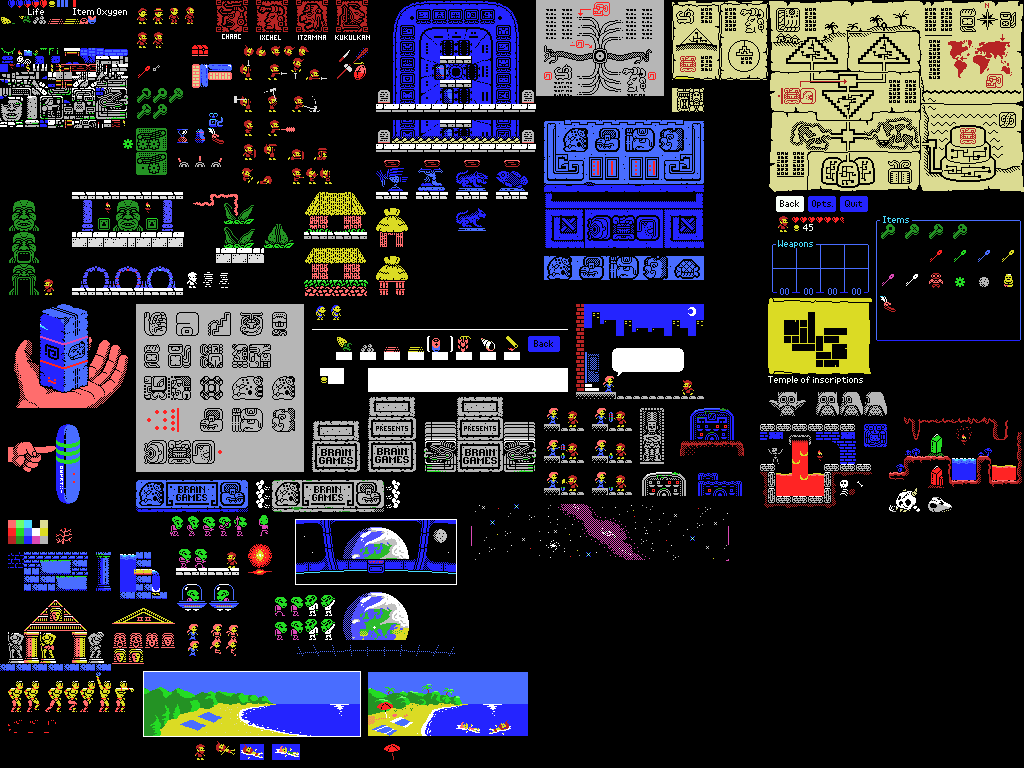
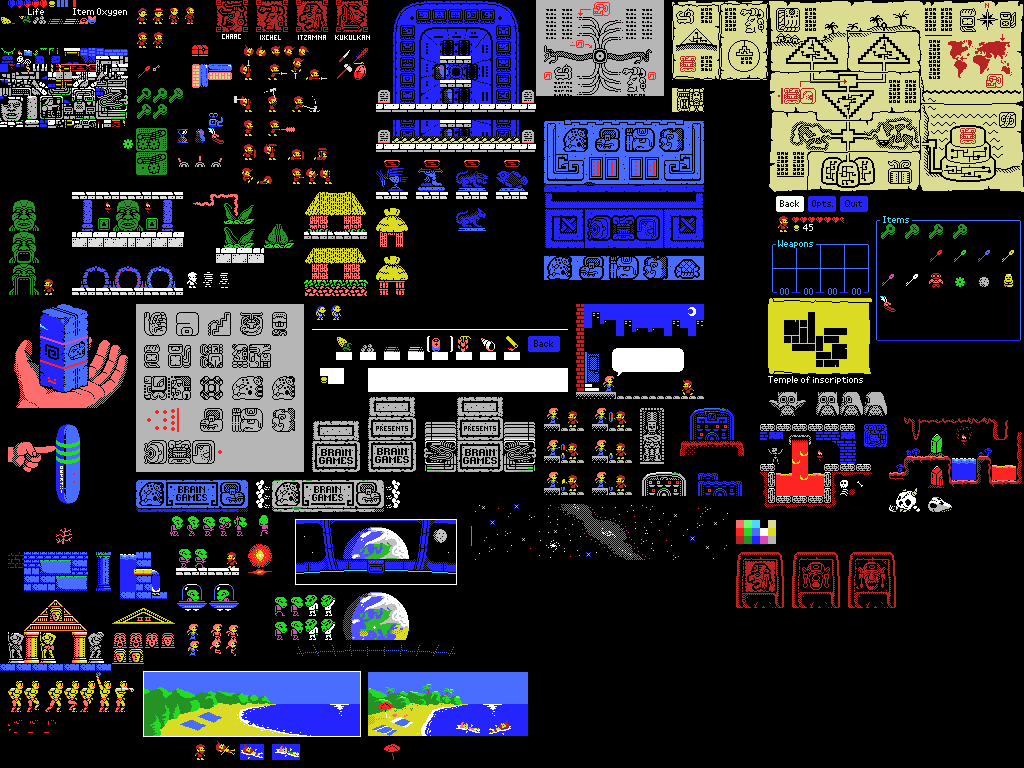
added itzamna altar and wall drawings to astronomy room

Changed region(s): [[0.7188, 0.6562, 0.875, 0.8125], [0.0, 0.6562, 0.0625, 0.7188]]

diff --git a/java/src/xspelunker2/Text.java b/java/src/xspelunker2/Text.java
@@ -118,11 +118,11 @@ public class Text {
         addLineSafe(lines_with_constant_page3, "normal", "DIFFICULTY_NORMAL", 6);
         addLineSafe(lines_with_constant_page3, "hard", "DIFFICULTY_HARD", 6);
         addLineSafe(lines_with_constant_page3, "hardest", "DIFFICULTY_HARDEST", 6);
-        addLineSafe(lines_with_constant_page3, "I am Itzanma, ruler of the sky! I rule over many worlds with different skies, each with their own name. Which of my worlds do you want?", "GAMESTART_CONSOLE_MSG1", 120);
+        addLineSafe(lines_with_constant_page3, "I am Itzamna, ruler of the sky! I rule over many worlds with different skies, each with their own name. Which of my worlds do you want?", "GAMESTART_CONSOLE_MSG1", 120);
 //        addLineSafe(lines_with_constant_page3, "Each world is identified by its name. Choose wisely! The world name determines the random seed, and difficulty...", "GAMESTART_CONSOLE_MSG2", 90);
 //        addLineSafe(lines_with_constant_page3, "Use the same name to play again on the same world. You can use letters, spaces and the numbers 0 - 4.", "GAMESTART_CONSOLE_MSG3", 90);
         addLineSafe(lines_with_constant_page3, "Creating world...", "GAMESTART_CONSOLE_MSG4", 90);
-        addLineSafe(lines_with_constant_page3, "Itzanma does not like this name. Try another one!", "GAMESTART_CONSOLE_MSG5", 90);
+        addLineSafe(lines_with_constant_page3, "Itzamna does not like this name. Try another one!", "GAMESTART_CONSOLE_MSG5", 90);
         
         addLineSafe(lines_with_constant_page1, "Game Over", "GAME_OVER", 16);
         addLineSafe(lines_with_constant_page1, "Continue?", "CONTINUE", 16);
@@ -362,7 +362,7 @@ public class Text {
         addLineSafe(lines_with_constant_page1, "I think I heard some door open deep into the ruins!", "PLACE_THIRD_POWER_STONE", 112);
         addLineSafe(lines_with_constant_page1, "Is the calendar stone fully powered up?! The center started pulsating!", "PLACE_FIFTH_POWER_STONE", 112);
         addLineSafe(lines_with_constant_page1, "Touch the calendar stone?", "TOUCH_STONE_QUESTION", 112);
-        addLineSafe(lines_with_constant_page3, "How can it be! It seems like some light from the moon and the nightsky is reaching this room through a long hole in the ceiling!", "ASTRONOMY_ENTER", 112);
+        addLineSafe(lines_with_constant_page3, "How can it be! It seems like some light from the moon and the nightsky is reaching this room through a tunnel in the ceiling!", "ASTRONOMY_ENTER", 112);
         
         addLineSafe(lines_with_constant_page1, "Wait! They had not given up... This is an ambush!!!", "CALENDAR_AMBUSH", 112);     
         addLineSafe(lines_with_constant_page1, "You place your hand in the center and, as the stone starts shaking, you hear a deep voice...", "CALENDAR_CENTER_MSG3", 112);
@@ -439,13 +439,13 @@ public class Text {
         addLineSafe(lines_with_constant_page1, "Face right", "COMBINATION_CLUE4", 8);
 
         // Trial god descriptions:
-        addLineSafe(lines_with_constant_page1, "A stone carving of the mayan god Itzanma.", "TRIAL_GOD1", 96);  // often regarded as the supreme creator god and the ruler of heaven, day, and night. He was also a culture hero, credited with giving humankind writing and the calendar, and was the patron god of medicine
+        addLineSafe(lines_with_constant_page1, "A stone carving of the mayan god Itzamna.", "TRIAL_GOD1", 96);  // often regarded as the supreme creator god and the ruler of heaven, day, and night. He was also a culture hero, credited with giving humankind writing and the calendar, and was the patron god of medicine
         addLineSafe(lines_with_constant_page1, "A stone carving of the mayan god Kukulkan.", "TRIAL_GOD2", 96);  // associated with wisdom, rain, wind, storms, and life
         addLineSafe(lines_with_constant_page1, "A stone carving of the mayan god Ixchel.", "TRIAL_GOD3", 96);  // primarily associated with fertility, pregnancy, childbirth, and midwifery
         addLineSafe(lines_with_constant_page1, "A stone carving of the mayan god Chaac.", "TRIAL_GOD4", 96);  // supreme Mayan god of rain, thunder, and lightning
         
         // Trial clues:
-        addLineSafe(lines_with_constant_page1, "Itzanma.", "TRIAL_CLUE_GODNAME1", 8);
+        addLineSafe(lines_with_constant_page1, "Itzamna.", "TRIAL_CLUE_GODNAME1", 8);
         addLineSafe(lines_with_constant_page1, "Kukulkan.", "TRIAL_CLUE_GODNAME2", 8);
         addLineSafe(lines_with_constant_page1, "Ixchel.", "TRIAL_CLUE_GODNAME3", 8);
         addLineSafe(lines_with_constant_page1, "Chaac.", "TRIAL_CLUE_GODNAME4", 8);
